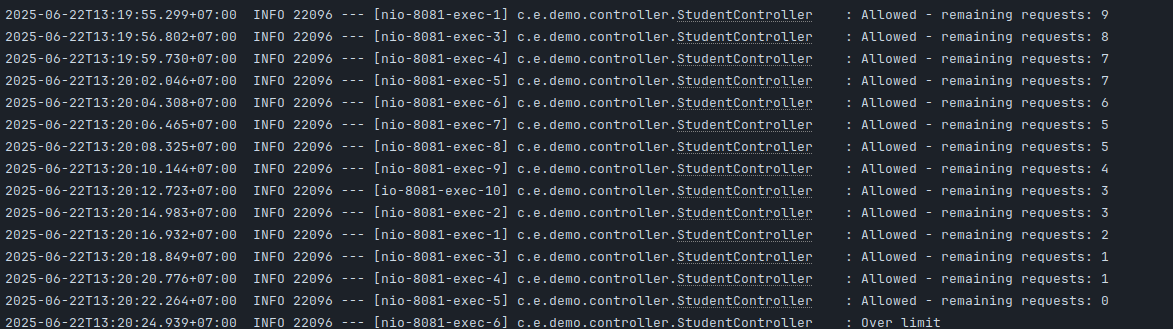
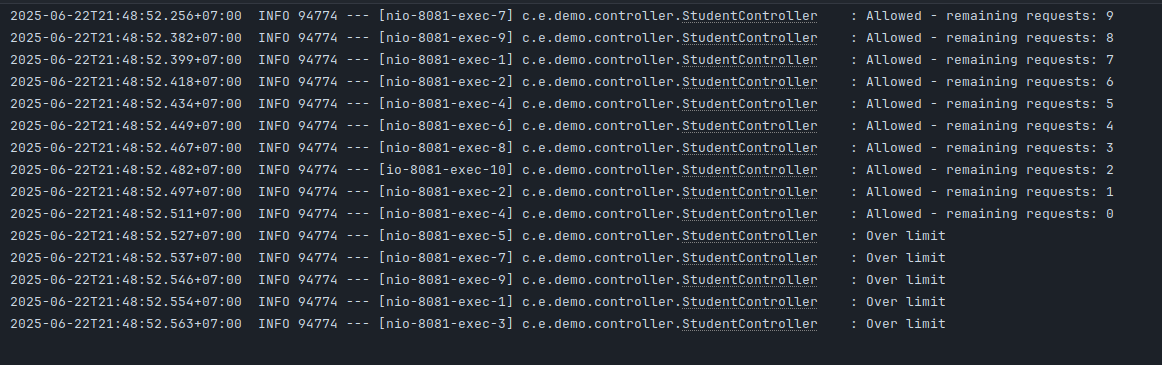
update README

diff --git a/README.md b/README.md
@@ -15,7 +15,7 @@
 **Tool:** kubeadm
 
 **Installation Steps & Configuration**  
-  Please refer to the detailed [kubeadm/README.md](kubeadm/README.md) for comprehensive setup instructions.
+- Please refer to the detailed [kubeadm/README.md](https://raw.githubusercontent.com/Fat1512/Viettel-Digital-Talent-Cloud-2025/main/kubeadm/README.md) for comprehensive setup instructions.
 
 **Server Address:**
 - Master: __192.168.111.111__  
@@ -34,14 +34,14 @@
 
 - **Screenshots:**
 
-- ![Nodes list](asset/1.0.init.png)
-- ![Pods list](asset/1.1.init-2.png)
+- ![Nodes list](https://raw.githubusercontent.com/Fat1512/Viettel-Digital-Talent-Cloud-2025/main/asset/1.0.init.png)
+- ![Pods list](https://raw.githubusercontent.com/Fat1512/Viettel-Digital-Talent-Cloud-2025/main/asset/1.1.init-2.png)
 
 
 ## 2. ArgoCD & Jenkins Setup
 
 ### ArgoCD
-  * **Manifest:** [ArgoCD Helm Chart](charts/web)
+  * **Manifest:** [ArgoCD Helm Chart](argocd/install.yaml)
   * **ArgoCD Service Address:**   192.168.113.111:32489
   * **Install ArgoCD:**
   ```shell
@@ -58,12 +58,12 @@
   
   kubectl get all -n argocd
   ```
-  ![ArgoCD Namespace](asset/image_argo_ns.png)
-  ![ArgoCD UI](asset/1.2.argo-startup.png)
+  ![ArgoCD Namespace](https://raw.githubusercontent.com/Fat1512/Viettel-Digital-Talent-Cloud-2025/main/asset/image_argo_ns.png)
+  ![ArgoCD UI](https://raw.githubusercontent.com/Fat1512/Viettel-Digital-Talent-Cloud-2025/main/asset/1.2.argo-startup.png)
 
 ### Jenkins
-  * **Manifest:** [Jenkins Helm Chart](charts/api)
-  * **Jenkins Service Address:**  192.168.113.111:32474
+  * **Manifest:** [Jenkins Helm Chart](https://raw.githubusercontent.com/Fat1512/Viettel-Digital-Talent-Cloud-2025/main/jenkins/)
+  * **Jenkins Service Address:**  __192.168.113.111:32474__
   * **Install Jenkins:**
   ```shell
   cd jenkins
@@ -77,8 +77,8 @@
   ```shell
   kubectl get all -n jenkins
   ```
-  ![Jenkins Namespace](asset/image_jenkins_ns.png)
-  ![Jenkins Startup](asset/1.3.jenkins-startup.png)
+  ![Jenkins Namespace](https://raw.githubusercontent.com/Fat1512/Viettel-Digital-Talent-Cloud-2025/main/asset/image_jenkins_ns.png)
+  ![Jenkins Startup](https://raw.githubusercontent.com/Fat1512/Viettel-Digital-Talent-Cloud-2025/main/asset/1.3.jenkins-startup.png)
 
 
 ## 3. Application Deployment via ArgoCD
@@ -96,63 +96,63 @@
     kubectl get svc -n vdt
   ```
 
-  ![ArgoCD Overview](asset/image_web_service.png)
+  ![ArgoCD Overview](https://raw.githubusercontent.com/Fat1512/Viettel-Digital-Talent-Cloud-2025/main/asset/image_web_service.png)
 
-  - Frontend Service: 192.168.113.111:32647
+  - Frontend Service: __192.168.113.111:32647__
    
-  - Auth Service: 192.168.113.111:30101
+  - Auth Service: __192.168.113.111:30101__
   
-  - Crud Service: 192.168.113.111:30102
+  - Crud Service: __192.168.113.111:30102__
 
-  ![ArgoCD Overview](asset/1.4.argo-startup-overview.png)
-  ![Auth Service](asset/1.5.argo-startup-auth.png)
-  ![CRUD Service](asset/1.6.argo-startup-crud.png)
-  ![Frontend Service](asset/1.7.argo-startup-frontend.png)
+  ![ArgoCD Overview](https://raw.githubusercontent.com/Fat1512/Viettel-Digital-Talent-Cloud-2025/main/asset/1.4.argo-startup-overview.png)
+  ![Auth Service](https://raw.githubusercontent.com/Fat1512/Viettel-Digital-Talent-Cloud-2025/main/asset/1.5.argo-startup-auth.png)
+  ![CRUD Service](https://raw.githubusercontent.com/Fat1512/Viettel-Digital-Talent-Cloud-2025/main/asset/1.6.argo-startup-crud.png)
+  ![Frontend Service](https://raw.githubusercontent.com/Fat1512/Viettel-Digital-Talent-Cloud-2025/main/asset/1.7.argo-startup-frontend.png)
 
 ### Demo
-  ![Frontend Demo](asset/1.9.frontend-demo.png)
-  ![Backend Demo](asset/1.8.backend-demo.png)
+  ![Frontend Demo](https://raw.githubusercontent.com/Fat1512/Viettel-Digital-Talent-Cloud-2025/main/asset/1.9.frontend-demo.png)
+  ![Backend Demo](https://raw.githubusercontent.com/Fat1512/Viettel-Digital-Talent-Cloud-2025/main/asset/1.8.backend-demo.png)
 
 ---
 
 ## 4. CI/CD
 
 ### Jenkinsfile
-* Backend Jenkinsfile: [Backend Jenkinsfile](https://github.com/Fat1512/VDT-Backend-Config)
-* Frontend Jenkinsfile: [Frontend Jenkinsfile](https://github.com/Fat1512/VDT-Frontend-Config)
+* Backend Jenkinsfile: [Backend Jenkinsfile](https://github.com/Fat1512/VDT-Backend/blob/main/Jenkinsfile)
+* Frontend Jenkinsfile: [Frontend Jenkinsfile](https://github.com/Fat1512/VDT-Frontend/blob/main/Jenkinsfile)
 
 ### Build Logs
 * Reference: [Log file](log/pipeline_log.txt)
 * Example: Update frontend title and observe pipeline triggers.
 
-![Web Build Log](asset/2.0.source-code-change.png)
+![Web Build Log](https://raw.githubusercontent.com/Fat1512/Viettel-Digital-Talent-Cloud-2025/main/asset/2.0.source-code-change.png)
 
 * Pipeline is automatically triggered on commit changes
 
-![Pipeline Output 1](asset/2.2.pipeline-output-1.png)
-![Pipeline Output 2](asset/2.3.pipeline-output-2.png)
-![Pipeline Output 3](asset/2.4.pipeline-output-3.png)
+![Pipeline Output 1](https://raw.githubusercontent.com/Fat1512/Viettel-Digital-Talent-Cloud-2025/main/asset/2.2.pipeline-output-1.png)
+![Pipeline Output 2](https://raw.githubusercontent.com/Fat1512/Viettel-Digital-Talent-Cloud-2025/main/asset/2.3.pipeline-output-2.png)
+![Pipeline Output 3](https://raw.githubusercontent.com/Fat1512/Viettel-Digital-Talent-Cloud-2025/main/asset/2.4.pipeline-output-3.png)
 
 ### Stage View
 
-![Frontend Stage](asset/2.5.jenkins-frontend.png)
-![Backend Stage](asset/2.6.jenkins-backend.png)
+![Frontend Stage](https://raw.githubusercontent.com/Fat1512/Viettel-Digital-Talent-Cloud-2025/main/asset/2.5.jenkins-frontend.png)
+![Backend Stage](https://raw.githubusercontent.com/Fat1512/Viettel-Digital-Talent-Cloud-2025/main/asset/2.6.jenkins-backend.png)
 
 ### Continuous Delivery Changes
 
 * CD repository and DockerHub images get updated automatically after successful builds.
 
-![CD Updated](asset/2.7.updated-cd.png)
-![DockerHub Updated](asset/2.8.updated-dockerhub.png)
+![CD Updated](https://raw.githubusercontent.com/Fat1512/Viettel-Digital-Talent-Cloud-2025/main/asset/2.7.updated-cd.png)
+![DockerHub Updated](https://raw.githubusercontent.com/Fat1512/Viettel-Digital-Talent-Cloud-2025/main/asset/2.8.updated-dockerhub.png)
 
 * ArgoCD automatically detects and synchronizes changes.
 
-![ArgoCD Updated](asset/2.9.updated-argo.png)
+![ArgoCD Updated](https://raw.githubusercontent.com/Fat1512/Viettel-Digital-Talent-Cloud-2025/main/asset/2.9.updated-argo.png)
 
 ### Before and After
 
-![Before Update](asset/2.10.updated-before.png)
-![After Update](asset/2.11.updated-after.png)
+![Before Update](https://raw.githubusercontent.com/Fat1512/Viettel-Digital-Talent-Cloud-2025/main/asset/2.10.updated-before.png)
+![After Update](https://raw.githubusercontent.com/Fat1512/Viettel-Digital-Talent-Cloud-2025/main/asset/2.11.updated-after.png)
 
 
 ## 5. Monitoring
@@ -165,20 +165,20 @@
   ansible-playbook -i inventory.ini deploy-prometheus.yml
   ```
 
-  ![Prometheus UI](asset/3.1.setup.png)
+  ![Prometheus UI](https://raw.githubusercontent.com/Fat1512/Viettel-Digital-Talent-Cloud-2025/main/asset/3.1.setup.png)
 
   * SSH into monitoring server and check status to ensure that container is up:
 
   ```shell
     docker ps
   ```
-  ![Prometheus UI](asset/prometheus_monitoring.png)
+  ![Prometheus UI](https://raw.githubusercontent.com/Fat1512/Viettel-Digital-Talent-Cloud-2025/main/asset/prometheus_monitoring.png)
 
   * API service monitoring:
 
-  ![Prometheus UI](asset/3.2.show-metrics.png)
-  ![Prometheus UI](asset/3.3.metric-1.png)
-  ![Prometheus UI](asset/3.4.metric-2.png)
+  ![Prometheus UI](https://raw.githubusercontent.com/Fat1512/Viettel-Digital-Talent-Cloud-2025/main/asset/3.2.show-metrics.png)
+  ![Prometheus UI](https://raw.githubusercontent.com/Fat1512/Viettel-Digital-Talent-Cloud-2025/main/asset/3.3.metric-1.png)
+  ![Prometheus UI](https://raw.githubusercontent.com/Fat1512/Viettel-Digital-Talent-Cloud-2025/main/asset/3.4.metric-2.png)
 
 ## 6. Logging 
   - To be continued
@@ -193,42 +193,42 @@
 - **Solution Reference:**[Log file](log/pipeline_log.txt)
 - **Security App Config:**
 
-![Admin Access](asset/4.0-security-config.png)
+![Admin Access](https://raw.githubusercontent.com/Fat1512/Viettel-Digital-Talent-Cloud-2025/main/asset/4.0-security-config.png)
 
 - **User role is allowed to get**
 
-![Admin Access](asset/4.0-user-get.png)
+![Admin Access](https://raw.githubusercontent.com/Fat1512/Viettel-Digital-Talent-Cloud-2025/main/asset/4.0-user-get.png)
 
 - **User role is forbidden to perform post**
 
-![Admin Access](asset/4.0-user-post.png)
+![Admin Access](https://raw.githubusercontent.com/Fat1512/Viettel-Digital-Talent-Cloud-2025/main/asset/4.0-user-post.png)
 
 - **User role is forbidden to perform delete**
 
-![Admin Access](asset/4.0-user-delete.png)
+![Admin Access](https://raw.githubusercontent.com/Fat1512/Viettel-Digital-Talent-Cloud-2025/main/asset/4.0-user-delete.png)
 
 
 - **Admin role is allowed to get**
 
-![Admin Access](asset/4.0-user-get.png)
+![Admin Access](https://raw.githubusercontent.com/Fat1512/Viettel-Digital-Talent-Cloud-2025/main/asset/4.1-admin-get.png)
 
-- **User role is allowed to perform post**
+- **Admin role is allowed to perform post**
 
-![Admin Access](asset/4.0-user-post.png)
+![Admin Access](https://raw.githubusercontent.com/Fat1512/Viettel-Digital-Talent-Cloud-2025/main/asset/4.1-admin-post.png)
 
-- **User role is allowed to perform post**
+- **Admin role is allowed to perform post**
 
-![Admin Access](asset/4.0-user-delete.png)
+![Admin Access](https://raw.githubusercontent.com/Fat1512/Viettel-Digital-Talent-Cloud-2025/main/asset/4.1-admin-delete.png)
 
 
 ### Rate Limiting
 
-- **Rate Limiting Configuration:** See [rateLimitation.md](docs/rateLimitation.md)
+- **Rate Limiting Configuration:** See [rate_limitation.md](docs/rate_limit.md)
 
 **Overview:**  
   The API endpoint /api/v1/students allows clients to retrieve student records. To prevent abuse and overuse, a token bucket algorithm is used to limit the number of requests.
 
-![Admin Access](asset/7.0.png)
+![Admin Access](https://raw.githubusercontent.com/Fat1512/Viettel-Digital-Talent-Cloud-2025/main/asset/7.0.png)
 
 - __Capacity__: 10 tokens
 
@@ -236,12 +236,13 @@
 
 - This means each client can send up to 10 requests per minute.
 
-![Admin Access](asset/7.1.png)
+![Admin Access](https://raw.githubusercontent.com/Fat1512/Viettel-Digital-Talent-Cloud-2025/main/asset/7.1.png)
 
-![Admin Access](asset/7.2.png)
+![Admin Access](https://raw.githubusercontent.com/Fat1512/Viettel-Digital-Talent-Cloud-2025/main/asset/7.2.png)
 
-![Admin Access](asset/7.3.png)
+![Admin Access](https://raw.githubusercontent.com/Fat1512/Viettel-Digital-Talent-Cloud-2025/main/asset/7.3.png)
+
+![Admin Access](https://raw.githubusercontent.com/Fat1512/Viettel-Digital-Talent-Cloud-2025/main/asset/7.4.png)
 
 - Once all tokens are used, further requests are blocked until the bucket refills after 1 minute.
 
-*Note*: There may be slight overlaps in token consumption due to concurrency (multiple threads accessing the bucket simultaneously), so the effective limit might occasionally exceed 10 requests per minute.

diff --git a/docs/rate_limit.md b/docs/rate_limit.md
@@ -1,0 +1,58 @@
+# Rate Limiting with Bucket4j - Spring Boot
+
+## Overview
+Implementation of API rate limiting using Bucket4j with **10 requests per minute** limit. Requests exceeding the limit return **HTTP 409 Conflict**.
+
+This document describes the implementation of rate limiting for API endpoints using the Token Bucket algorithm with Bucket4j library in Spring Boot. The solution limits requests to 10 requests per minute and returns HTTP 409 Conflict for exceeded requests.
+
+The token bucket algorithm works as follows:
+
+A bucket has a fixed capacity (10 tokens)
+Tokens are added to the bucket at a fixed rate (10 tokens per minute)
+Each request consumes one token
+If no tokens available, request is rejected with HTTP 409
+
+## Dependencies
+```xml
+<dependency>
+    <groupId>com.bucket4j</groupId>
+    <artifactId>bucket4j-core</artifactId>
+    <version>8.7.0</version>
+</dependency>
+```
+
+## Implementation
+
+### 1. Configuration
+```java
+@Configuration
+public class RateLimitConfig {
+    @Bean
+    public Bucket createBucket() {
+        Bandwidth limit = Bandwidth.classic(10, Refill.intervally(10, Duration.ofMinutes(1)));
+        return Bucket.builder().addLimit(limit).build();
+    }
+}
+```
+
+### 2. Interceptor
+```java
+@GetMapping
+public ResponseEntity<APIResponse> getStudents() {
+    ConsumptionProbe probe = bucket.tryConsumeAndReturnRemaining(1);
+    if (probe.isConsumed()) {
+        logger.info("Allowed - remaining requests: {}", probe.getRemainingTokens());
+        List<Student> students = studentRepository.findAll();
+        APIResponse response = APIResponse.builder()
+                .status(HttpStatus.OK)
+                .message(APIResponseMessage.SUCCESSFULLY_RETRIEVED.name())
+                .data(students)
+                .build();
+        return ResponseEntity.ok(response);
+    }
+    logger.info("Over limit");
+
+    return ResponseEntity.status(HttpStatus.CONFLICT).build();
+}
+```
+
